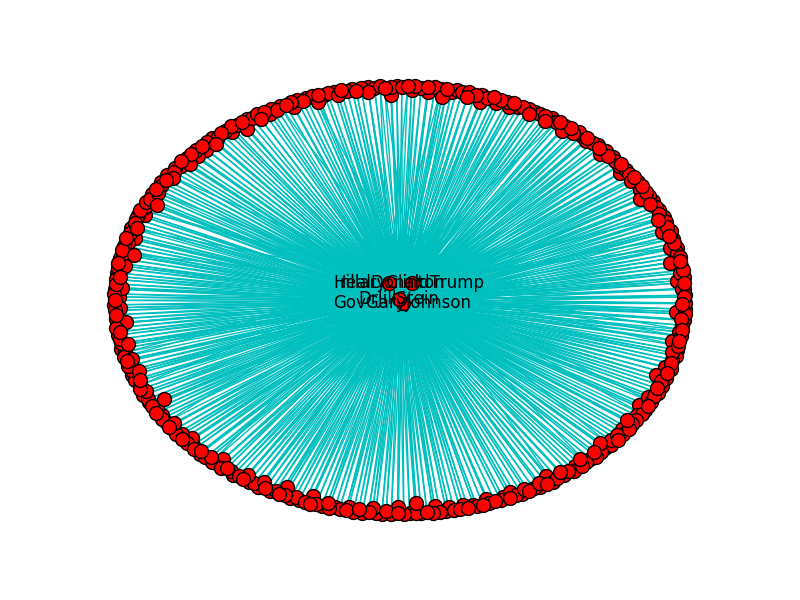
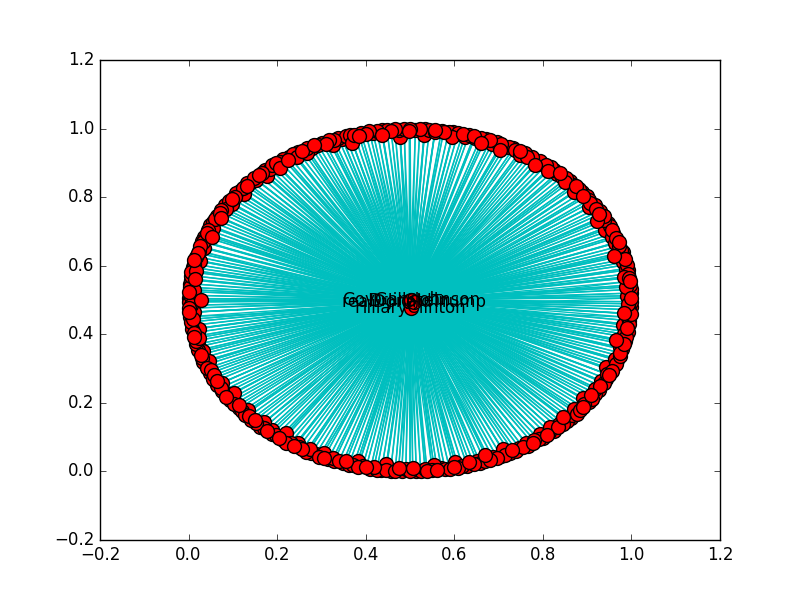
update the code

diff --git a/a0/a0.py b/a0/a0.py
@@ -356,7 +356,8 @@ def draw_network(graph, users, filename):
     for user in users:
         custom_labels[user['screen_name']] = user['screen_name']
 
-    nx.draw(graph,  labels=custom_labels, node_list = custom_node_sizes.keys(), node_size=100,edge_color='c')
+    #nx.draw(graph,  labels=custom_labels, node_list = custom_node_sizes.keys(), node_size=100,edge_color='c')
+    nx.draw_networkx(graph,  labels=custom_labels, node_list = custom_node_sizes.keys(), node_size=100,edge_color='c',pos=nx.spring_layout(graph),alpha=.5)
     plt.savefig(filename)
     #plt.show()
 
